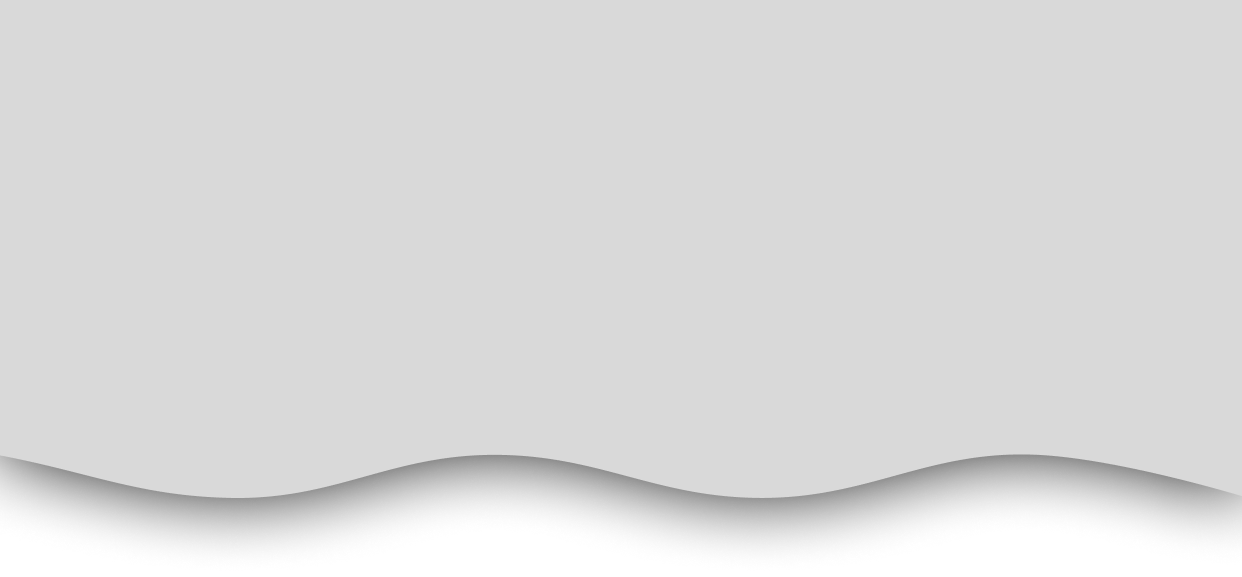
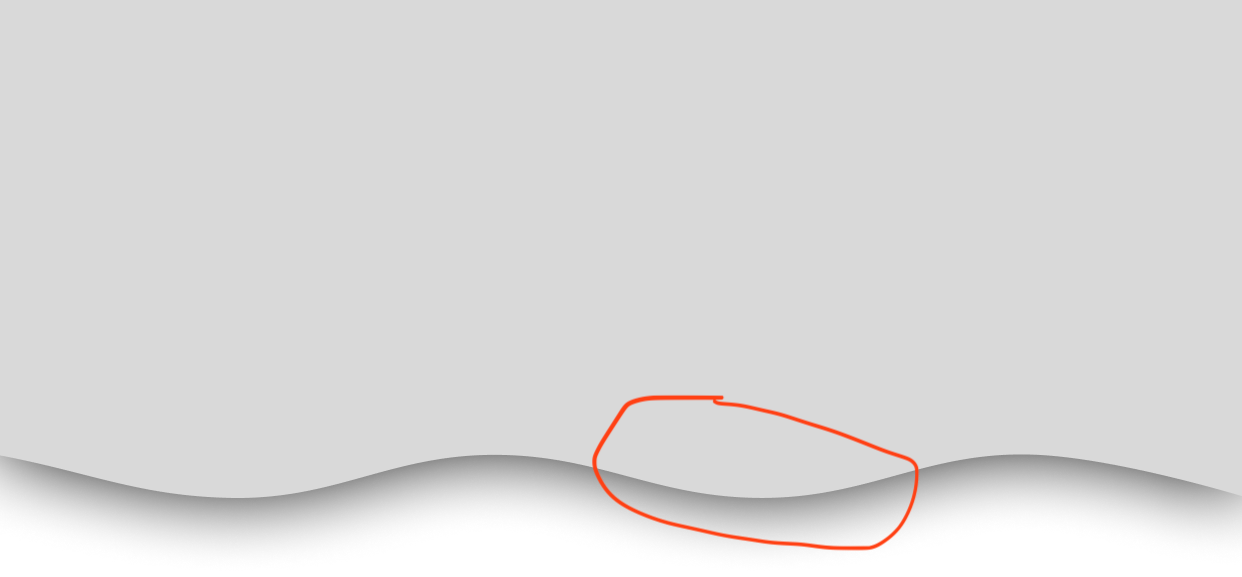
click text created - ebany pizdec

diff --git a/index.html b/index.html
@@ -224,9 +224,8 @@
       <section class="showreel" id="showreel">
         <a href="https://vk.com/video537084431_456242127" target="_blank" rel="noopener" class="showreel-mobile-link"></a>
         <div class="showreel-mobile-container">
-          <!-- <div class="mobile-click-text">Клик</div> -->
           <div class="showreel-mp4-mobile-wrapper">
-          
+            <div class="mobile-click-text">Клик</div>
             <video class="showreel-mp4-mobile" autoplay muted playsinline loop preload="auto">
               <source src="videos/showreel/mobile_showreel_cutted.mp4" type="video/mp4">
               Ваш браузер не поддерживает видео.
@@ -347,6 +346,48 @@ Blender (3D). Также в этом ролике <br>
         </div>
       </div>
       </section>
+
+      <script>
+        window.addEventListener('load', () => {
+          const video = document.querySelector('.showreel-mp4-mobile');
+          const text = document.querySelector('.mobile-click-text');
+          const wrapper = document.querySelector('.showreel-mp4-mobile-wrapper');
+      
+          const updateTextPosition = () => {
+            if (!video || !text || !wrapper) return;
+      
+            const rect = video.getBoundingClientRect();
+            const wrapperRect = wrapper.getBoundingClientRect();
+            const offsetTop = rect.bottom - wrapperRect.top;
+      
+            // Настройки по умолчанию (мобила)
+            let extraOffset = 50;
+            let horizontalBoost = 70;
+      
+            const screenWidth = window.innerWidth;
+      
+            if (screenWidth >= 768 && screenWidth < 1024) {
+              // iPad Air, mini
+              extraOffset = 90;
+              horizontalBoost = 120;
+            } else if (screenWidth >= 1024) {
+              // iPad Pro
+              extraOffset = 110;         // выше
+              horizontalBoost = 160;     // правее
+            }
+      
+            const verticalBoost = 20;
+      
+            text.style.position = 'absolute';
+            text.style.top = `${offsetTop - text.offsetHeight - extraOffset - verticalBoost}px`;
+            text.style.left = `${rect.left + rect.width / 2 - text.offsetWidth / 2 + horizontalBoost}px`;
+          };
+      
+          video.addEventListener('loadeddata', updateTextPosition);
+          window.addEventListener('resize', updateTextPosition);
+          setTimeout(updateTextPosition, 500);
+        });
+      </script>
 
       <section class="section-4" id="whyme">
       <div class="section-4-bg"></div>

diff --git a/styles/mobile-styles.css b/styles/mobile-styles.css
@@ -1008,7 +1008,7 @@ body {
     z-index: 2;
 
     /* Маска */
-mask-image: url('../mobile/images/showreel/maskvector.svg'); /* белая звезда на прозрачном фоне */
+mask-image: url('../mobile/images/showreel/maskvector_tmp.svg'); /* белая звезда на прозрачном фоне */
 mask-size: contain;
 mask-repeat: no-repeat;
 mask-position: center;
@@ -1024,7 +1024,7 @@ mask-mode: luminance;
     }
 
 /* Добавляем стили для надписи "Клик" на мобильных устройствах */
-/* Стили закомментированы по запросу
+
 .mobile-click-text {
   display: none;
 }
@@ -1032,7 +1032,9 @@ mask-mode: luminance;
 .mobile-device .mobile-click-text {
   display: block;
   position: absolute;
-  bottom: 15%;
+  
+  
+  
   right: 15%;
   font-family: var(--font-family-montserrat);
   font-size: 5vw;
@@ -1044,7 +1046,6 @@ mask-mode: luminance;
   text-align: center;
   transform: translate(0, 0);
 }
-*/
 
 /* Стили для ссылки на мобильное видео */
 .showreel-mobile-link {
